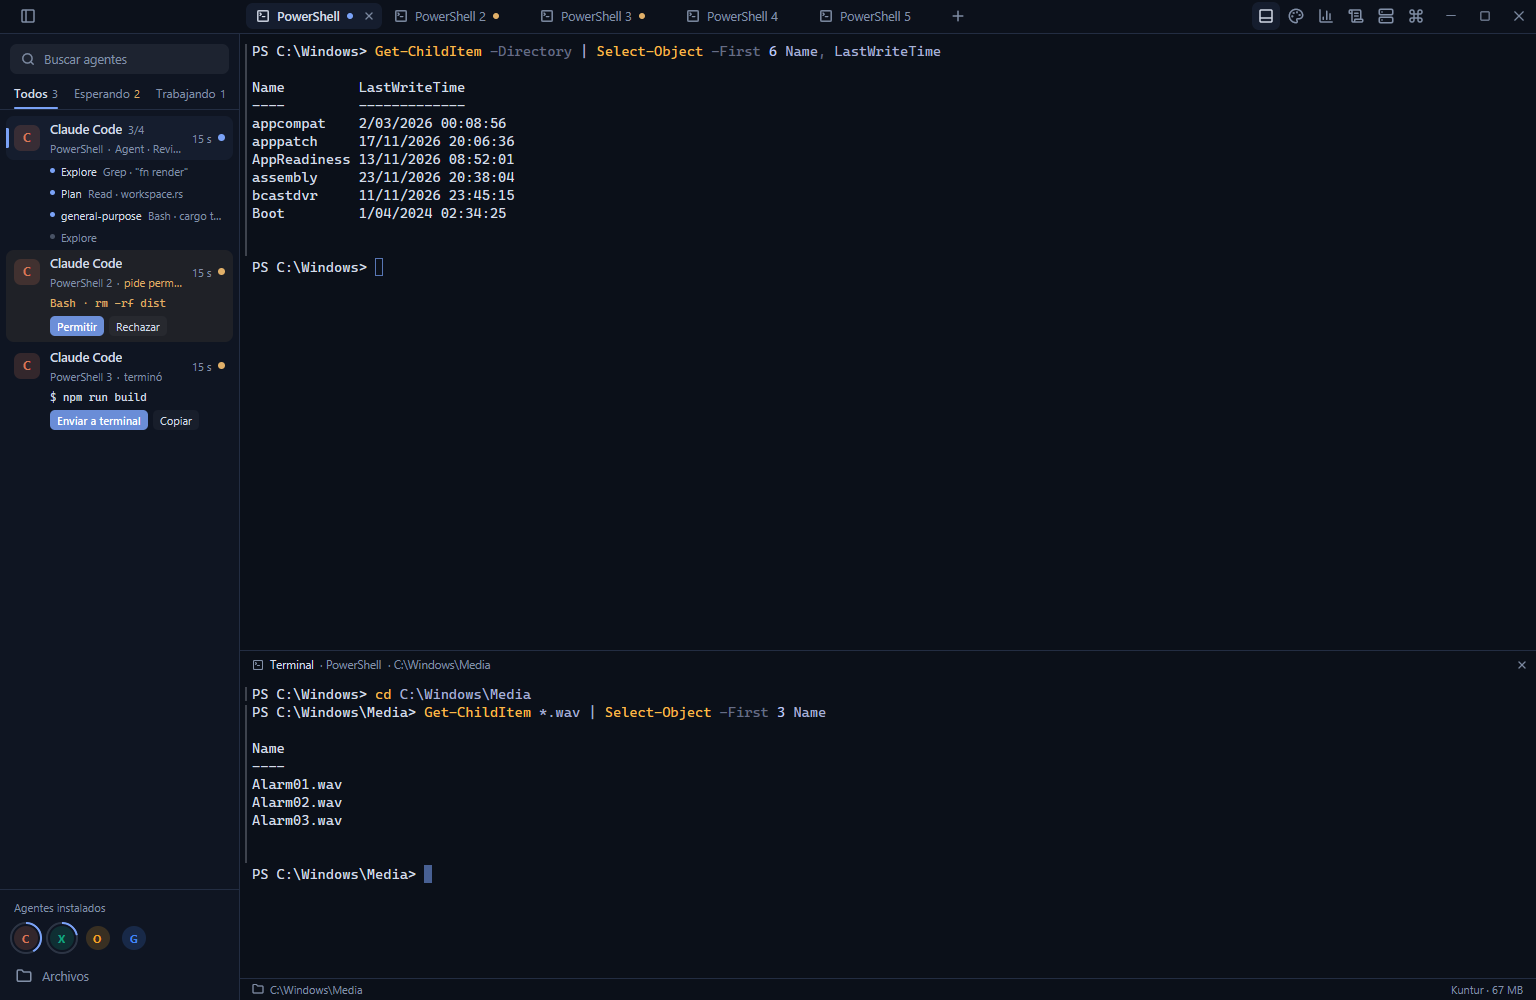
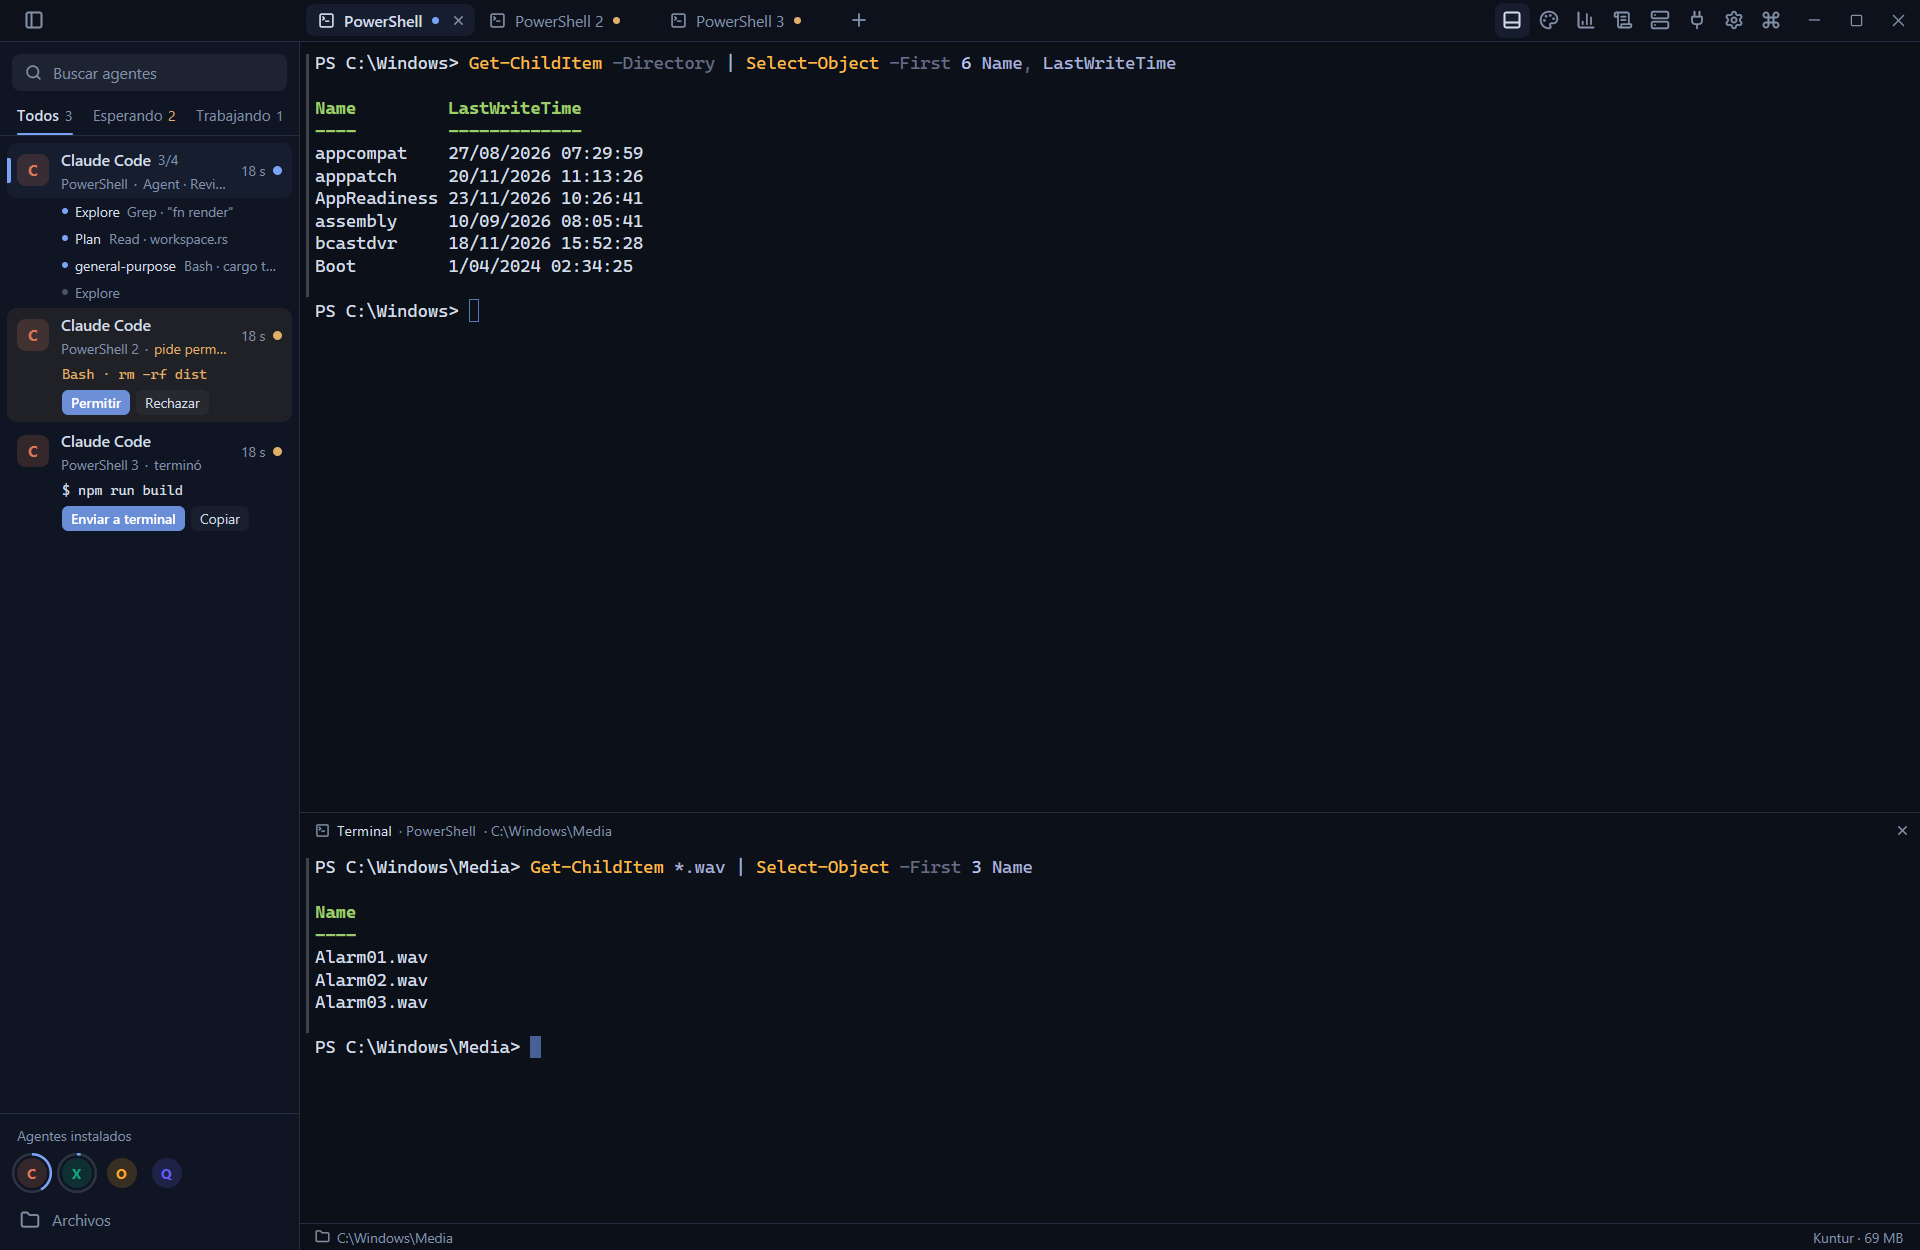
docs(v0.2): capturas nuevas, README, CHANGELOG y resultados; ajustes de la validación visual
- Capturas en carpetas neutras y con datos sintéticos: principal (Dark), Configuración,
  árbol con menú contextual, Uso y vista previa de Markdown.
- README es/en con las funciones de la 0.2; CHANGELOG con la 0.1.0 separada.
- Configuración usa casi todo el alto de la ventana; la fila de versión ya no repite el
  título.
- smoke.ps1 -FileMenu (menú contextual sobre la primera carpeta del árbol).

diff --git a/crates/kuntur-app/src/workspace/files_panel.rs b/crates/kuntur-app/src/workspace/files_panel.rs
@@ -1419,7 +1419,7 @@ impl Workspace {
 
     /// `KUNTUR_SMOKE_FILES=remote`: panel "Archivos" con un árbol remoto **sintético** (en memoria)
     /// y una cola de transferencias sintética. Requiere una pestaña remota (`-Connections remote`).
-    pub(super) fn smoke_files(&mut self, cx: &mut Context<Self>) {
+    pub(super) fn smoke_files(&mut self, window: &mut Window, cx: &mut Context<Self>) {
         let Ok(mode) = std::env::var("KUNTUR_SMOKE_FILES") else {
             return;
         };
@@ -1476,6 +1476,27 @@ impl Workspace {
             self.files.tree.set_root(self.files.dir.clone());
             self.files.tree.expand("/home/demo/proyecto/src");
             self.load_files(false, cx);
+        }
+        // Ajustes v0.2: menú contextual abierto sobre la primera carpeta del árbol (para la captura).
+        if std::env::var_os("KUNTUR_SMOKE_FILE_MENU").is_some() {
+            // Espera a que el árbol siga a la carpeta final de la sesión (después de sus comandos):
+            // si se abriera antes, se cerraría al cambiar la raíz.
+            let delay = Duration::from_millis(
+                std::env::var("KUNTUR_SMOKE_FILE_MENU_MS")
+                    .ok()
+                    .and_then(|v| v.parse().ok())
+                    .unwrap_or(2_500),
+            );
+            cx.spawn_in(window, async move |this, cx| {
+                cx.background_executor().timer(delay).await;
+                let _ = this.update_in(cx, |w, window, cx| {
+                    let folder = w.files.tree.rows().into_iter().find(|r| r.entry.is_dir && !r.expanded);
+                    if let Some(row) = folder {
+                        w.open_file_menu(row.entry, point(px(150.), px(150.)), window, cx);
+                    }
+                });
+            })
+            .detach();
         }
     }
 

diff --git a/crates/kuntur-app/src/workspace/update_view.rs b/crates/kuntur-app/src/workspace/update_view.rs
@@ -234,7 +234,7 @@ impl Workspace {
             UpdatePhase::Downloading(u) => self.download_text(u),
             UpdatePhase::Installing => t(T::UpdatesInstalling).into(),
             UpdatePhase::Failed(e) => format!("{}: {e}", t(T::UpdatesFailed)),
-            UpdatePhase::Idle => format!("{} {}", t(T::UpdatesVersion), kuntur_update::CURRENT_VERSION),
+            UpdatePhase::Idle => kuntur_update::CURRENT_VERSION.to_string(),
         }
     }
 

diff --git a/crates/kuntur-app/src/workspace.rs b/crates/kuntur-app/src/workspace.rs
@@ -366,7 +366,7 @@ impl Workspace {
         this.smoke_preview(Duration::from_millis(2_500 + 600 * smoke_commands + 1_500), window, cx);
 
         // Prueba de humo del árbol remoto y la cola de transferencias (datos sintéticos, F7).
-        this.smoke_files(cx);
+        this.smoke_files(window, cx);
 
         // F10: MCP por sesión (limpieza de temporales, capturas → vista previa, prueba de humo).
         this.start_mcp(window, cx);

diff --git a/crates/kuntur-app/src/workspace/settings_view.rs b/crates/kuntur-app/src/workspace/settings_view.rs
@@ -428,7 +428,7 @@ impl Workspace {
             .track_focus(&self.focus)
             .w(px(PANEL_W))
             .max_w(relative(0.95))
-            .max_h(px(620.))
+            .max_h(relative(0.94))
             .bg(c.popover)
             .border_1()
             .border_color(c.border)

diff --git a/docs/plans/ajustes-v0.2-resultados.md b/docs/plans/ajustes-v0.2-resultados.md
@@ -1,0 +1,42 @@
+# Ajustes v0.2 — resultados
+
+Plan: [`2026-11-24-ajustes-v0.2.md`](2026-11-24-ajustes-v0.2.md). Rama `ajustes/v0.2` (versión **0.2.0**).
+
+## Qué se hizo
+
+| # | Ajuste | Estado |
+|---|---|---|
+| 1 | Imágenes como Warp: Ctrl+V con imagen → Claude Code con su tecla (`[Image #N]`), otros agentes y shell con la ruta del PNG, SSH subiendo por SFTP; arrastrar imágenes; barra del agente con miniaturas | ✅ lógica con pruebas; captura ✅ (sin agente: se pega la ruta) |
+| 2 | Título del agente en la pestaña (OSC 0/2, sin spinners), nombre según el shell, nombre manual que gana, marquesina en la pestaña activa (se detiene con el mouse, sin temporizador en reposo) | ✅ con pruebas |
+| 3 | Notificaciones por tipo, tiempo mínimo por sesión (5 min), solo en segundo plano | ✅ con pruebas |
+| 4 | Configuración (⚙, Ctrl+, , paleta): temas en círculos con su nombre, letra, panel, marquesina, idioma, notificaciones, actualizaciones | ✅ captura |
+| 5–6 | Árbol tipo VS Code y menú contextual es/en (sin "Diff This") | ✅ captura; "Buscar en la carpeta" y "Línea de tiempo" en gris (próximamente) |
+| 7 | Aviso de actualización: GitHub Releases, SHA-256 y firma verificados, `msiexec /passive`, reabre Kuntur | ✅ con pruebas; de punta a punta ⏳ con la primera 0.2.x publicada |
+| 8 | Firma: `msi.ps1 -Sign`, SignPath opcional en la CI, `docs/FIRMA.md` | ✅ preparado; certificado ⏳ (usuario) |
+| 9 | Acceso directo en el escritorio (MSI) | ✅ tabla `Shortcut` revisada con `msi.ps1 -Check` |
+| 10 | Linux/Mac: carpetas por sistema, `$SHELL`, trabajos de CI | ✅ base; la app completa ⏳ en la CI |
+| 11 | Publicación: historial y binarios revisados, repositorio público, nombre «Kuntur Terminal IA Agente», capturas nuevas | ✅ |
+
+Además: los binarios de release ya no llevan rutas de la PC (`--remap-path-prefix`; `msi.ps1` se niega a armar un
+MSI que las tenga) y los tooltips de la barra de título están en español e inglés.
+
+## Verificación
+- `cargo fmt --all`, `cargo clippy --workspace --all-targets -- -D warnings` y `cargo test --workspace` en verde,
+  salvo `terminal_view::ghost::tests::tab_acepta_la_ruta_sugerida_en_powershell`, que ya fallaba antes en esta PC
+  (PSReadLine muestra sus propias predicciones en la línea; no es de esta entrega).
+- Capturas (`scripts/smoke.ps1 … -Display 0 -AllowPrimary`, con permiso del usuario porque esta PC tiene un solo
+  monitor), siempre en carpetas neutras (`C:\Windows`, `C:\Users\Public\Documents\Kuntur`) y con datos sintéticos:
+  `docs/images/kuntur-dark.png`, `kuntur-settings.png`, `kuntur-files.png`, `kuntur-usage.png`, `kuntur-preview.png`.
+  RAM medida en las pruebas: 66–83 MB.
+- Para las capturas se agregaron `-Settings`, `-FileMenu` y `-PasteImage` a `smoke.ps1`. Ojo: `-AllowPrimary` solo
+  funciona junto con `-Display <n>`.
+
+## Pendiente
+- Pruebas manuales con agentes reales: Win+Shift+S → Ctrl+V dentro de `claude` (Windows lee `CF_DIB`), Codex,
+  OpenCode y una pestaña SSH; título de Claude Code en la pestaña.
+- Actualizar de 0.2.0 a una 0.2.x publicada (prueba de punta a punta del actualizador).
+- Certificado de firma (SignPath Foundation o propio) — ver `docs/FIRMA.md`.
+- Árbol: portapapeles del sistema (copiar en Kuntur y pegar en el Explorador), selección múltiple, arrastrar dentro
+  del árbol; "Buscar en la carpeta" y "Abrir línea de tiempo".
+- Traducir al inglés el resto de la interfaz (paleta, Uso, Auditoría, Conexiones, MCP).
+- Ver los trabajos `linux` y `macos` de la CI en GitHub.

diff --git a/README.es.md b/README.es.md
@@ -41,15 +41,31 @@ valle desde lo alto, ves de un vistazo todas tus sesiones y lo que hace cada age
   PDF y HTML (WebView2) en una vista dividida que se recarga sola.
 - **Integración con el shell:** bloques OSC 133 (una marca fina por comando, roja si falló) y **autocompletado en
   gris** de rutas, memoria de carpetas e historial por carpeta (Tab o → aceptan).
+- **Capturas para tu agente, como en Warp:** Ctrl+V con una imagen en el portapapeles la adjunta — Claude Code
+  muestra `[Image #N]`, los demás agentes reciben la ruta del PNG guardado y las pestañas SSH primero la suben —, y
+  una barra del agente muestra las miniaturas.
+- **La pestaña dice qué hace el agente:** el título que pone el agente (en Claude Code, el tema de la conversación)
+  reemplaza a "PowerShell"; si es largo, en la pestaña activa se desplaza y se detiene con el mouse.
+- **Árbol de archivos como el Explorer de VS Code**, con su menú de clic derecho (nuevo archivo/carpeta, cambiar
+  nombre, eliminar a la Papelera, cortar/copiar/pegar entre local y remoto, copiar ruta, mostrar en el Explorador,
+  agregar al chat…).
+- **Configuración** (Ctrl+,): temas, tamaño de letra, idioma (español / inglés), notificaciones que no molestan
+  (por tipo, como mucho una por sesión cada pocos minutos y solo en segundo plano) y búsqueda de actualizaciones.
+- **Actualizar con un clic:** un aviso cuando sale una versión nueva; Kuntur descarga el instalador, verifica su
+  SHA-256 y su firma, lo instala y se vuelve a abrir.
 
-| Uso (Blue) | Vista previa y diff (White) |
+| Configuración (Blue) | Archivos y menú contextual (Dark) |
 |---|---|
-| ![Vista de uso de agentes con datos sintéticos](docs/images/kuntur-usage.png) | ![Vista previa de Markdown y diff a colores](docs/images/kuntur-preview.png) |
+| ![Panel de Configuración con los temas como círculos de color](docs/images/kuntur-settings.png) | ![Árbol de archivos con el menú contextual tipo VS Code](docs/images/kuntur-files.png) |
+
+| Uso (Blue) | Vista previa (White) |
+|---|---|
+| ![Vista de uso de agentes con datos sintéticos](docs/images/kuntur-usage.png) | ![Vista previa de Markdown](docs/images/kuntur-preview.png) |
 
 ## Instalar
 
 Descarga `kuntur-<versión>-x86_64.msi` de la página de Releases del proyecto y ejecútalo. Instala `kuntur.exe` y
-`kuntur-hook.exe` en `C:\Program Files\Kuntur` y agrega **Kuntur** al menú Inicio. Se desinstala desde
+`kuntur-hook.exe` en `C:\Program Files\Kuntur` y agrega **Kuntur** al menú Inicio y al escritorio. Se desinstala desde
 *Configuración → Aplicaciones*; tu configuración en `%APPDATA%\Kuntur` se conserva.
 
 Requisitos: Windows 11 x64 (probado; Windows 10 1809+ debería funcionar porque tiene ConPTY), GPU con DirectX 11/12.
@@ -95,6 +111,7 @@ kuntur/
 | Atajo | Acción |
 |---|---|
 | Ctrl+Shift+P | Paleta de comandos (temas, sesiones, acciones) |
+| Ctrl+, | Configuración (temas, idioma, notificaciones, actualizaciones) |
 | Ctrl+Shift+T / Ctrl+Shift+W | Nueva sesión / cerrar sesión |
 | Ctrl+Tab, Ctrl+Shift+Tab, Ctrl+1…9 | Cambiar de sesión |
 | Ctrl+Shift+B | Panel lateral: completo ↔ íconos |

diff --git a/README.md b/README.md
@@ -37,15 +37,29 @@ valley from above, you see every session at a glance and what each agent is doin
   HTML (WebView2) in a split view that reloads on change.
 - **Shell integration:** OSC 133 blocks (a thin mark per command, red on error) and **ghost-text completion** for
   paths, folder memory and per-folder history (Tab or → accepts).
+- **Screenshots for your agent, like Warp:** Ctrl+V with an image in the clipboard attaches it — Claude Code shows
+  `[Image #N]`, other agents get the saved PNG path, SSH tabs upload it first — and an agent bar shows thumbnails.
+- **The tab shows what the agent is doing:** the title the agent sets (in Claude Code, the topic of the
+  conversation) replaces "PowerShell"; long titles scroll on the active tab and stop on hover.
+- **File tree like VS Code's Explorer** with its right-click menu (new file/folder, rename, delete to the Recycle
+  Bin, cut/copy/paste between local and remote, copy path, reveal in File Explorer, add to chat…).
+- **Settings** (Ctrl+,): themes, font size, language (Spanish / English), notifications that do not nag (per type,
+  at most one per session every few minutes, only in the background) and update checks.
+- **Updates in one click:** a notice when a new version is out; Kuntur downloads the installer, verifies its SHA-256
+  and signature, installs it and reopens.
 
-| Usage (Blue) | Preview and diff (White) |
+| Settings (Blue) | Files and right-click menu (Dark) |
 |---|---|
-| ![Agent usage view with synthetic data](docs/images/kuntur-usage.png) | ![Markdown preview and colored diff](docs/images/kuntur-preview.png) |
+| ![Settings panel with themes as color circles](docs/images/kuntur-settings.png) | ![File tree with the VS Code-like context menu](docs/images/kuntur-files.png) |
+
+| Usage (Blue) | Preview (White) |
+|---|---|
+| ![Agent usage view with synthetic data](docs/images/kuntur-usage.png) | ![Markdown preview](docs/images/kuntur-preview.png) |
 
 ## Install
 
 Download `kuntur-<version>-x86_64.msi` from the project's Releases page and run it. It installs `kuntur.exe` and
-`kuntur-hook.exe` in `C:\Program Files\Kuntur` and adds **Kuntur** to the Start menu. Uninstall from *Settings →
+`kuntur-hook.exe` in `C:\Program Files\Kuntur` and adds **Kuntur** to the Start menu and the desktop. Uninstall from *Settings →
 Apps*; your settings in `%APPDATA%\Kuntur` are kept.
 
 Requirements: Windows 11 x64 (tested; Windows 10 1809+ should work, since it has ConPTY), a GPU with DirectX 11/12. Recommended font: Cascadia Mono
@@ -71,6 +85,7 @@ The first build takes several minutes (GPUI and SQLite). To build the MSI you al
 | Shortcut | Action |
 |---|---|
 | Ctrl+Shift+P | Command palette (themes, sessions, actions) |
+| Ctrl+, | Settings (themes, language, notifications, updates) |
 | Ctrl+Shift+T / Ctrl+Shift+W | New session / close session |
 | Ctrl+Tab, Ctrl+Shift+Tab, Ctrl+1…9 | Switch sessions |
 | Ctrl+Shift+B | Side panel: full ↔ icons |

diff --git a/docs/plans/ESTADO.md b/docs/plans/ESTADO.md
@@ -3,8 +3,8 @@
 > Última actualización: 2026-11-24. Léela primero al retomar en otra PC (o pídele a Claude Code que la lea).
 
 ## Dónde está cada cosa
-- **Rama `integracion/f10-f11` (pendiente de revisión para avanzar `main`): Fases 1 a 11 integradas** (2026-11-24, merge de `fase/f10-mcp` y luego `fase/f11-publicacion` sobre `main`). Pruebas, clippy y fmt en verde; capturas revisadas; MSI generado desde esta rama (no instalado). Conflictos, corrección de CPU en reposo (antes/después), capturas y pendientes en `docs/plans/integracion-f10-f11.md`. Cuando el usuario avance `main` a esta rama, **`main` tendrá F1–F11**.
-- Rama **`main`**: Fases 1 a 9 (hasta que se avance a `integracion/f10-f11`). Integración anterior: `docs/plans/integracion-f5-f9.md`.
+- **Versión 0.2.0 — Ajustes v0.2** (rama `ajustes/v0.2`, que se integra en `main`): Configuración (Ctrl+,) con temas en círculos, idioma es/en y notificaciones configurables; árbol de archivos y menú contextual tipo VS Code; título del agente en la pestaña con marquesina; imágenes como Warp (Ctrl+V); aviso de actualización con descarga verificada; firma preparada (`docs/FIRMA.md`); acceso directo en el escritorio; binarios sin rutas de la PC. Resultados y pendientes: `docs/plans/ajustes-v0.2-resultados.md`.
+- Rama **`main`**: Fases 1 a 11 (versión 0.1.0, etiqueta `v0.1.0`). El repositorio `jrsprescott/kuntur` es **público** desde el 2026-11-24.
 - Rama **`fase/f10-mcp`**: Fase 10 · MCP y comandos (`docs/plans/f10-resultados.md`): crate `kuntur-mcp`, gestor de MCP por pestaña (botón, Ctrl+Shift+M, paleta), perfiles con modelo/esfuerzo/permisos, configuración MCP generada por CLI al lanzar (Claude Code, Codex, OpenCode; nunca la global), «Probar», capturas → vista previa y comandos con atajo. Faltan las pruebas manuales ⏳ con MCP y agentes reales.
 - Rama **`fase/f11-publicacion`**: Fase 11 · Pulido y publicación (`docs/plans/f11-resultados.md`): licencia MIT OR Apache-2.0, ícono, instalador MSI (`scripts\msi.ps1 -Check`, WiX v3 + cargo-wix; AUMID `Kuntur.Kuntur`), contraste WCAG (Blue corregido), teclado en Uso/Auditoría/Conexiones, medición final, README en inglés + `README.es.md`, CONTRIBUTING, SECURITY, CHANGELOG y revisión de privacidad del historial. El repositorio es **público** desde el 2026-11-24 (revisión de privacidad del historial y del instalador 0.1.0, que se regeneró sin rutas de la PC). Falta instalar el MSI en una PC de prueba ⏳.
 - Las ramas `integracion/*` y `fase/*` quedan como historia de cada fase (no hace falta trabajar en ellas).

diff --git a/docs/plans/README.md b/docs/plans/README.md
@@ -33,7 +33,7 @@
 
 Orden recomendado: **F1 → F2 → F3 → F4 → F5 → F6 → F7 → F8 → F9 → F10 → F11**.
 
-**Después de F11 — Ajustes v0.2** (rama `ajustes/v0.2`): imágenes como Warp (`[Image #1]`), árbol de archivos con menú contextual tipo VS Code (español/inglés), título de la IA en la pestaña (con desplazamiento), notificaciones menos insistentes y panel de Configuración con temas en círculos → [`2026-11-24-ajustes-v0.2.md`](2026-11-24-ajustes-v0.2.md) (pendiente).
+**Después de F11 — Ajustes v0.2** (rama `ajustes/v0.2`): imágenes como Warp (`[Image #1]`), árbol de archivos con menú contextual tipo VS Code (español/inglés), título de la IA en la pestaña (con desplazamiento), notificaciones menos insistentes y panel de Configuración con temas en círculos → [`2026-11-24-ajustes-v0.2.md`](2026-11-24-ajustes-v0.2.md) ✅ ([resultados](ajustes-v0.2-resultados.md)).
 - 2026-11-24: F10 y F11 integradas en `integracion/f10-f11` (ver [`integracion-f10-f11.md`](integracion-f10-f11.md)); al avanzar `main`, la hoja de ruta queda completa.
 - 2026-11-23: el diseño v5 (pestañas arriba, panel de agentes y uso) se adelantó como F3; el uso/costos de la antigua F5 quedó dentro de F3.
 - 2026-11-23: se adoptó la especificación del usuario ([`ESPECIFICACION.md`](../ESPECIFICACION.md)). Cambios: F3 suma filtros Hoy/1 año, costo estimado, CSV y SQLite; F5 suma alertas (las notificaciones salen de la antigua F10), auditoría y agentes configurables; F6 suma el gestor de conexiones; F7 suma transferencias completas; **nueva F8 · Vista previa y diff**; la antigua F8 (shell) pasa a F9, MCP a F10 y pulido a F11.

diff --git a/CHANGELOG.md b/CHANGELOG.md
@@ -24,12 +24,23 @@ Spanish, are in [`docs/plans/`](docs/plans/).
   (see `docs/FIRMA.md`).
 - Linux and macOS groundwork: data folders per OS (XDG / Library), `$SHELL` as the default shell, and CI jobs that
   build there (Windows is still the only released platform).
-- _(pending: AI title in the session tab with marquee; Warp-style image paste)_
+- **AI title in the session tab:** while an agent runs, the tab shows the title it sets (in Claude Code, the topic of
+  the conversation) instead of "PowerShell"; when it does not fit, the active tab scrolls it back and forth and stops
+  on hover. A name given by hand always wins. Default tab names follow the shell (PowerShell, cmd, bash, zsh…).
+- **Warp-style image paste:** Ctrl+V with a screenshot in the clipboard attaches it instead of pasting nothing.
+  Claude Code gets its own image-paste key and shows `[Image #N]`; other agents and the plain shell get the saved
+  PNG path; SSH tabs upload it by SFTP first. Dragging an image onto the terminal works the same. An agent bar shows
+  the thumbnails (click to preview).
+- Title bar tooltips in Spanish and English.
 
 ### Changed
 - Release binaries no longer contain paths of the build machine (`--remap-path-prefix`), and `msi.ps1` refuses to
   build an installer that does.
 - The theme button opens Settings at the themes.
+
+## [0.1.0] — 2026-11-24 (preview)
+
+First preview release (phases F1–F11).
 
 ### Added (F10 · MCP and commands)
 - New `kuntur-mcp` crate: MCP server catalog (`[[mcp]]`, stdio or http) and profiles (`[[mcp_perfiles]]`) in
